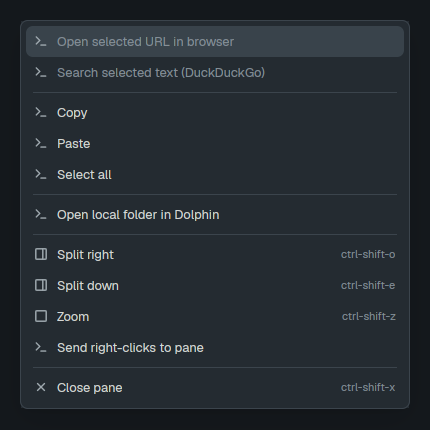
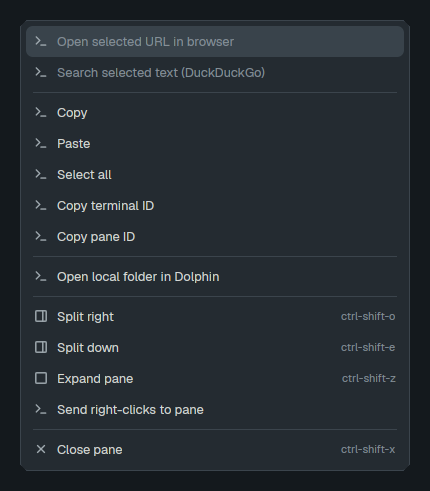
Add terminal and pane ID copy actions and refresh the menu preview
- Copy identifiers from the right-click target and label pane zoom using its current state.
- Fit the additional rows and show the installed menu in the gallery screenshot.

diff --git a/mods/selected-actions-menu/main.js b/mods/selected-actions-menu/main.js
@@ -40,7 +40,7 @@ function items(p, git) {
       const toProgram = term?.labels?.["herdr.right-click"] === "program";
       // A terminal shown outside a tab (a layout terminal block, a window) has
       // no pane to split, zoom or close: its pane is the block's id.
-      const inTab = tg.modelPane && term;
+      const pane = tg.modelPane && term && allPanes.find(p => p.pane === tg.pane);
       return [
         ["Open selected URL in browser", "selected.url", tg, !!term?.selection],
         ["Search selected text (DuckDuckGo)", "selected.search", tg, !!term?.selection],
@@ -49,12 +49,14 @@ function items(p, git) {
         ["Copy", "selected.copy", tg, !!term],
         ["Paste", "selected.paste", tg, !!term],
         ["Select all", "selected.all", tg, !!term],
-        ["Open local folder in Dolphin", "selected.folder", tg, !!inTab && !!localFolder(tg, allPanes, spaces(), all)],
-        ...(inTab
+        ["Copy terminal ID", "selected.copy_id", { id: tg.terminal }, !!term],
+        ...(pane ? [["Copy pane ID", "selected.copy_id", { id: tg.pane }]] : []),
+        ["Open local folder in Dolphin", "selected.folder", tg, !!pane && !!localFolder(tg, allPanes, spaces(), all)],
+        ...(pane
           ? [
               ["Split right", "pane.split", { direction: "right", pane: tg.pane }],
               ["Split down", "pane.split", { direction: "down", pane: tg.pane }],
-              ["Zoom", "pane.zoom", { pane: tg.pane }],
+              [pane.zoomed ? "Collapse pane" : "Expand pane", "pane.zoom", { pane: tg.pane }],
             ]
           : []),
         ...(term
@@ -65,7 +67,7 @@ function items(p, git) {
             ]
           : []),
         ...(parent ? [[`Send back to ${parent.name || parent.address}`, "terminal.park", { terminal: term.address }]] : []),
-        ...(inTab ? [["Close pane", "pane.close", { pane: tg.pane }]] : []),
+        ...(pane ? [["Close pane", "pane.close", { pane: tg.pane }]] : []),
       ];
     }
     case "tab":
@@ -129,6 +131,11 @@ export default class Menu extends View {
     if (!shown || shown[3] === false || this.busy) return;
     const it = currentItem(shown, items(this.menu, this.git));
     if (!it || it[3] === false) return;
+    if (it[1] === "selected.copy_id") {
+      cx.write_to_clipboard(it[2].id);
+      closeOverlay(props()?.overlay);
+      return;
+    }
     if (it[1] === "selected.copy") {
       // Match the shipped menu: close the keyboard-owning popup before
       // dispatching. Queue the clicked target and Copy in the same callback;

diff --git a/HERDR-DEV-CHECKLIST.md b/HERDR-DEV-CHECKLIST.md
@@ -6,7 +6,7 @@ Live official gallery checked on 2026-11-19: `https://herdr.dev/mods` redirects 
 
 - [x] Code under `mods/selected-actions-menu/`.
 - [x] Root `RECIPE.md` with a rebuild brief and preview reference.
-- [x] Root `preview.png`: actual native popup, cropped to 430 × 430; final pixels inspected. No private terminal content, machine names, paths, or account data.
+- [x] Root `preview.png`: 430 × 491 crop of the installed popup showing both ID-copy rows and Expand pane. Final pixels inspected; no terminal content, IDs, machine names, paths, or account data.
 - [x] No `layouts/` folder; merge `terminal_menu` into a personal layout.
 - [x] No keyboard rebinding required.
 - [ ] Public GitHub repository created and exact commit read back.
@@ -21,13 +21,14 @@ Live official gallery checked on 2026-11-19: `https://herdr.dev/mods` redirects 
 - [x] Herdr 0.1.16 native checks passed for both the packaged mod and the installed copy.
 - [x] 49 validation cases passed, including delayed clipboard publication/delivery, refusal on timeout or focus loss, and cwd changes after launch. Clipboard cases use synthetic text.
 - [x] Foreground retest by the user: Open URL opened the selected URL, DuckDuckGo showed the selected query, and Dolphin opened the current directory after `cd`.
+- [x] Foreground retest by the user: Copy pane ID copied the clicked pane ID. A native-runtime fixture separately checked both ID values (including machine prefixes), expand/collapse dispatch, and refusal after target or zoom state changed.
 - [x] Runtime dependencies present: `qdbus6`, `kstart`, `xdg-open`, Dolphin. Klipper's D-Bus interface responds; no private clipboard data needed for this check.
 - [x] Original live popup inspected for the preview. A separate hidden-window check of the remediated menu with a removed model pane rendered no Split or Close pane action; this did not exercise input or clipboard delivery.
 - [x] Generated declarations/editor files ignored; no raw screenshot, personal configuration, clipboard capture, credentials, or diagnostic helper is included.
 
 ## Still unverified / not claimed working
 
-- [ ] Remaining foreground action matrix on the exact package: Copy/Paste/Select all and split/zoom/close.
+- [ ] Remaining foreground actions on the exact package: Copy terminal ID, Copy/Paste/Select all, split, expand/collapse, and close.
 - [ ] Shift-drag and Shift-right-click inside mouse-capturing applications. Copy was user-reported working in a plain terminal, not on normal Hermes-owned highlights. This workaround is documented, not proven here.
 - [ ] Live no-selection and stale-target refusal: remove a parent while “Send back” is highlighted, move a terminal between panes, and change focus during extraction. Check model panes, layout blocks, and temporarily shown terminals separately.
 

diff --git a/RECIPE.md b/RECIPE.md
@@ -8,11 +8,13 @@ The preview is a privacy-reviewed crop of the actual live menu in its no-selecti
 
 ## What you see
 
-A theme-following native popup, not a permanent panel. Group URL opening and DuckDuckGo search first; Copy, Paste, and Select all next; a local-folder action next; then the existing split, zoom, right-click-routing, parent-terminal, and close actions where applicable. Use a 390px-wide popup with a 425px height allowance, 5px outer padding, 31px rows, 12.8px labels, 14px shipped workspace-chrome icons, 7px row radii, subtle 1px separators, and keyboard navigation. Use theme popover, foreground, dim, muted, selected, hover and border colors. Invalid actions are disabled. Error notifications explain refused operations.
+A theme-following native popup, not a permanent panel. Group URL and DuckDuckGo first; clipboard actions (including Copy terminal ID and Copy pane ID) next; the local folder next; then split, expand/collapse, right-click routing, parent-terminal, and close where applicable. Use a 390px-wide popup with a 490px height allowance, 5px outer padding, 31px rows, 12.8px labels, 14px shipped workspace-chrome icons, 7px row radii, subtle 1px separators, and keyboard navigation. Use theme popover, foreground, dim, muted, selected, hover and border colors. Invalid actions are disabled. Error notifications explain refused operations.
 
 ## How it behaves
 
 The menu belongs to the terminal that was right-clicked, not whichever terminal later happens to be active. Keep the clicked pane and terminal identifiers and distinguish model panes from layout blocks when the popup opens. Preserve Up/Down, Enter, and Escape behavior. Recheck the chosen action and its arguments, not its old row number, before dispatch.
+
+Copy IDs verbatim from the clicked target, never from the active terminal or its selection. Show Copy pane ID only for a matching model pane. Label Herdr's zoom toggle Expand pane or Collapse pane from that pane's live zoom state. These actions use Herdr APIs; the interaction reference is [Orca's terminal context menu](https://github.com/stablyai/orca/blob/b4101397f8f0021f5894b093b68f83895223aa95/src/renderer/src/components/terminal-pane/context-menu/TerminalContextMenu.tsx).
 
 Open selected URL accepts one complete HTTP(S) URL and launches the local default browser. Reject credentials in the authority, unsupported schemes, whitespace, control characters, and malformed URLs. Search explicitly sends the selected text, URI-encoded, to DuckDuckGo; reject empty or excessively long input.
 

diff --git a/README.md b/README.md
@@ -4,15 +4,16 @@ An expanded terminal right-click menu for Herdr Desktop, adapted from its shippe
 
 ![Herdr QuickMenu](preview.png)
 
-Experimental Linux/KDE mod. The preview is a crop of the real live menu with no text selected; disabled browser/search entries are intentional.
+Experimental Linux/KDE mod. The preview shows the live terminal menu with no text selected, so the URL and search actions are disabled.
 
 ## Included actions
 
 - Open a selected HTTP(S) URL in the default browser
 - Search selected text with DuckDuckGo
 - Copy, Paste, Select all
+- Copy the clicked terminal ID or model pane ID, without selecting text. Remote IDs retain their machine prefix.
 - Open a known local terminal folder in Dolphin
-- Existing split, zoom, and close actions
+- Split right/down, expand or collapse the clicked pane, and close
 
 ## Requirements and limitations
 
